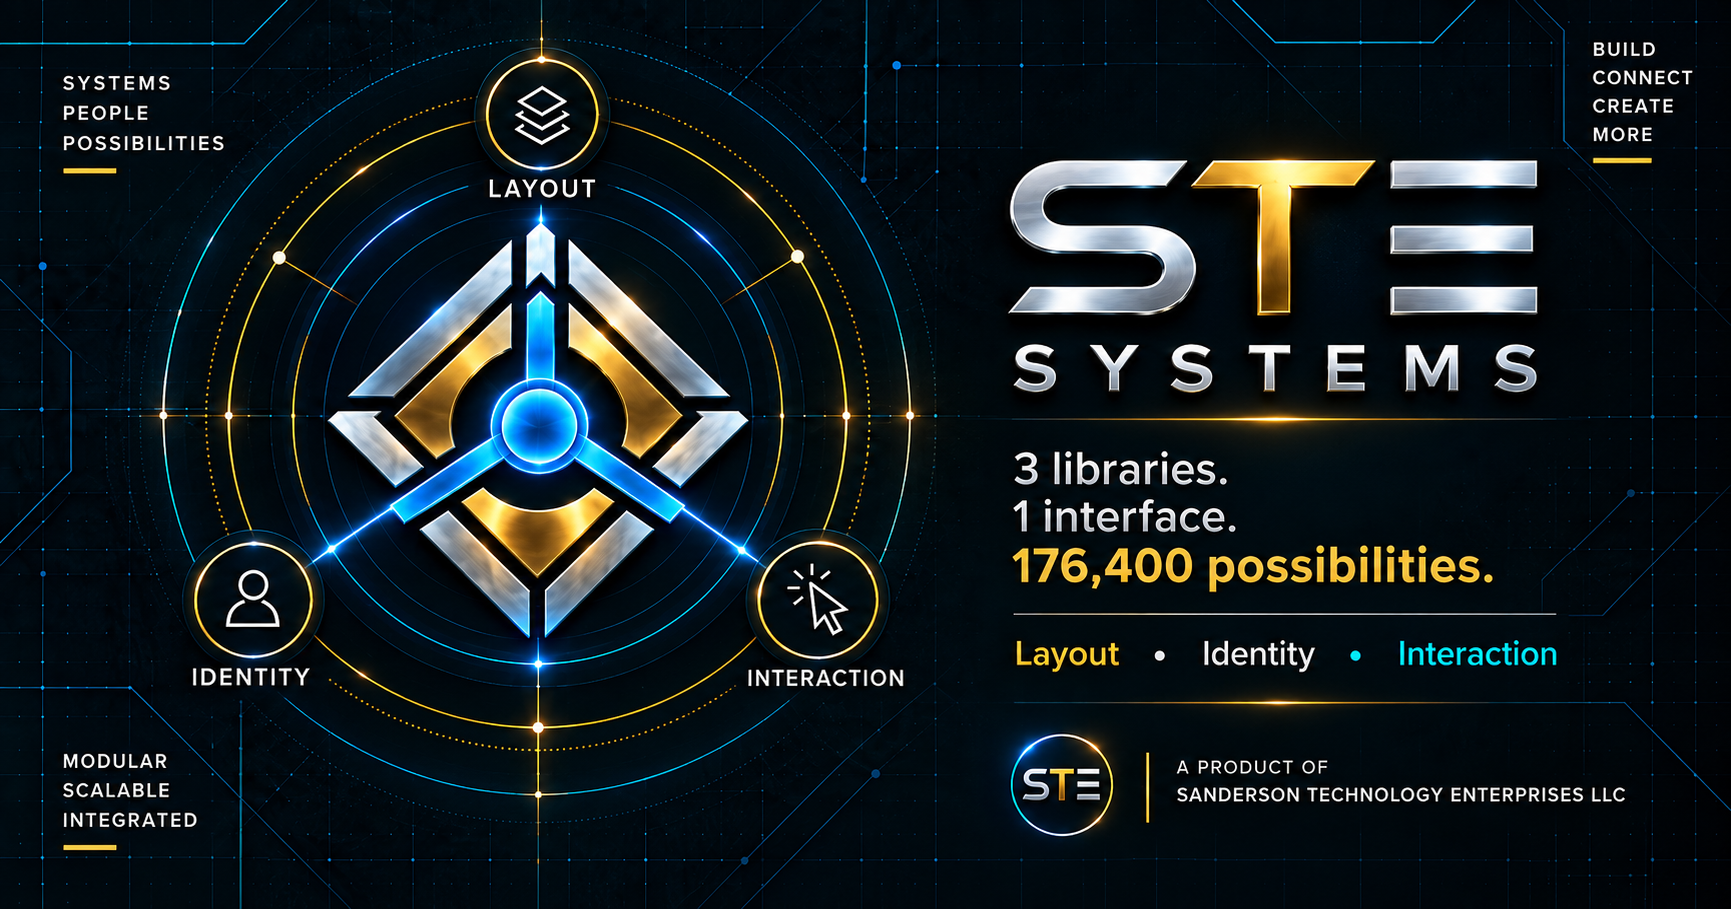
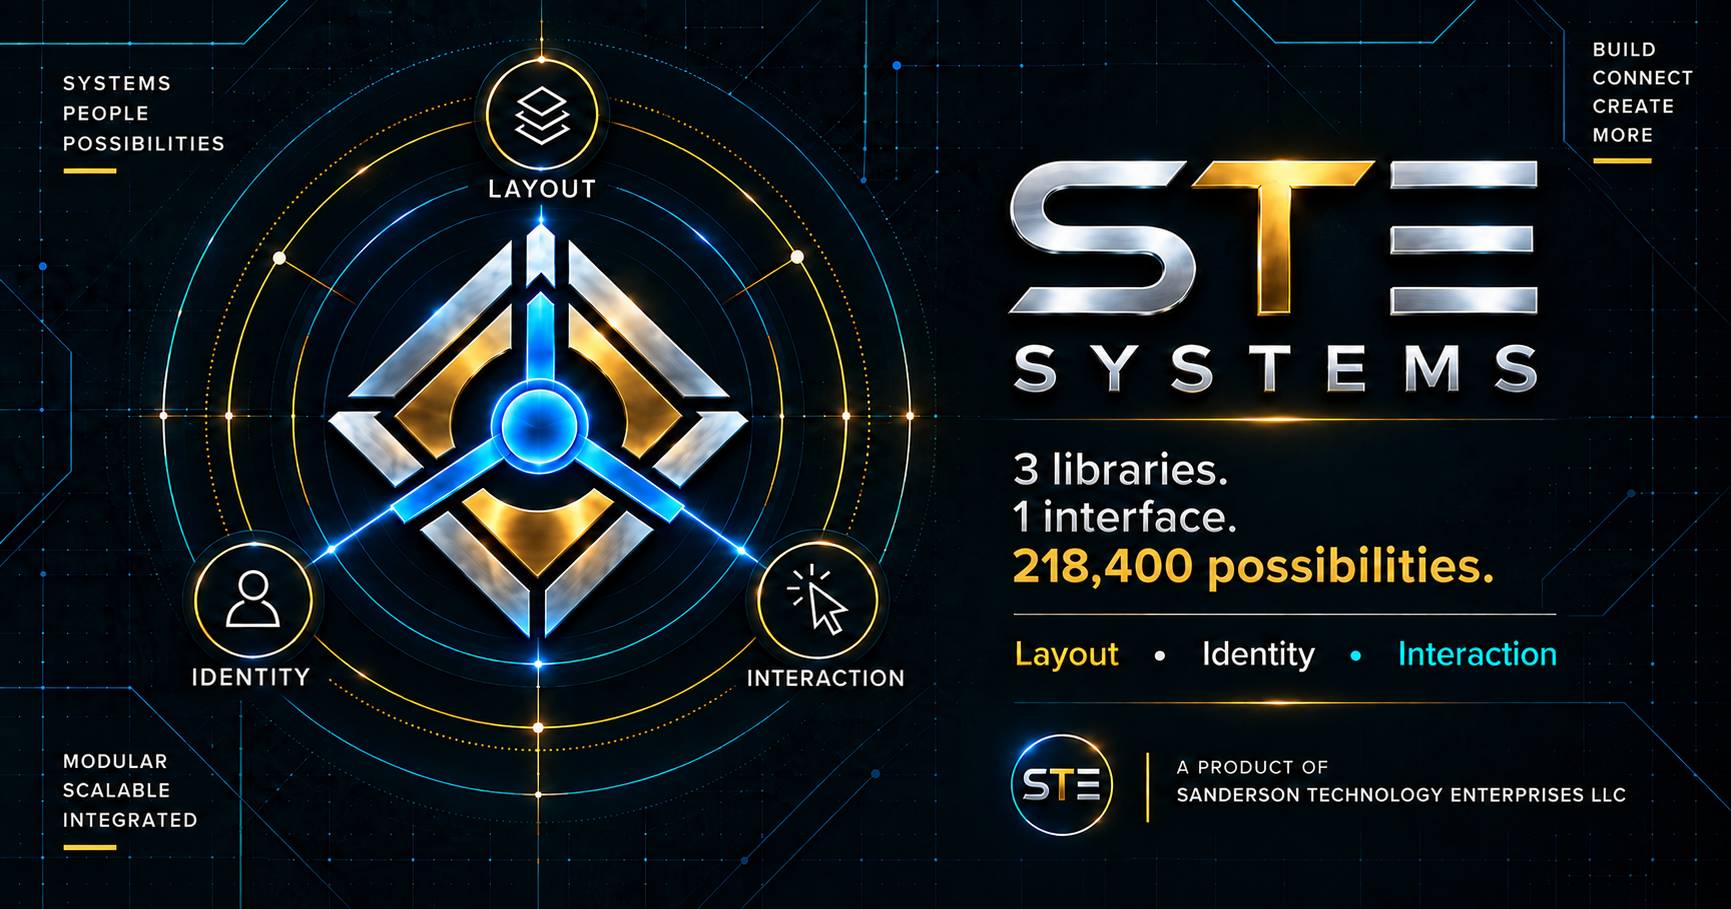
feat: expand STE Systems to 218400 combinations

diff --git a/tests/ecosystem.test.ts b/tests/ecosystem.test.ts
@@ -14,6 +14,8 @@ import {
   CDN_MARKUP,
   ECOSYSTEM_PACKAGES,
   NPM_INSTALL,
+  UI_STYLE_KIT_INSTALL_SPEC,
+  UI_STYLE_KIT_THEME_COMMIT,
 } from "../app/data/ecosystem";
 import {
   UI_SEMANTIC_CLASS_BY_SUFFIX,
@@ -180,9 +182,11 @@ test("the pinned UI manifest publishes the stable semantic component contract", 
 });
 
 test("installation examples pin approved versions and cascade order", () => {
+  const uiStyleKitCdnRoot = `https://cdn.jsdelivr.net/gh/Foscat/ui-style-kit-css@${UI_STYLE_KIT_THEME_COMMIT}`;
+
   assert.equal(
     NPM_INSTALL,
-    "npm install ui-style-kit-css@2.4.0 layout-style-css@3.2.0 interactive-surface-css@1.7.0",
+    `npm install ui-style-kit-css@${UI_STYLE_KIT_INSTALL_SPEC} layout-style-css@3.2.0 interactive-surface-css@1.7.0`,
   );
   assert.deepEqual(BUNDLER_IMPORTS, [
     'import "ui-style-kit-css/visual.css";',
@@ -194,12 +198,12 @@ test("installation examples pin approved versions and cascade order", () => {
     {
       packageName: "ui-style-kit-css",
       kind: "style",
-      href: "https://cdn.jsdelivr.net/npm/ui-style-kit-css@2.4.0/dist/ui-style-kit.visual.min.css",
+      href: `${uiStyleKitCdnRoot}/dist/ui-style-kit.visual.min.css`,
     },
     {
       packageName: "ui-style-kit-css",
       kind: "style",
-      href: "https://cdn.jsdelivr.net/npm/ui-style-kit-css@2.4.0/styles/interactive-surface-theme.css",
+      href: `${uiStyleKitCdnRoot}/styles/interactive-surface-theme.css`,
     },
     {
       packageName: "interactive-surface-css",
@@ -215,8 +219,8 @@ test("installation examples pin approved versions and cascade order", () => {
   assert.equal(
     CDN_MARKUP,
     [
-      '<link rel="stylesheet" href="https://cdn.jsdelivr.net/npm/ui-style-kit-css@2.4.0/dist/ui-style-kit.visual.min.css">',
-      '<link rel="stylesheet" href="https://cdn.jsdelivr.net/npm/ui-style-kit-css@2.4.0/styles/interactive-surface-theme.css">',
+      `<link rel="stylesheet" href="${uiStyleKitCdnRoot}/dist/ui-style-kit.visual.min.css">`,
+      `<link rel="stylesheet" href="${uiStyleKitCdnRoot}/styles/interactive-surface-theme.css">`,
       '<link rel="stylesheet" href="https://cdn.jsdelivr.net/npm/interactive-surface-css@1.7.0/state-core.css">',
       '<link rel="stylesheet" href="https://cdn.jsdelivr.net/npm/layout-style-css@3.2.0/dist/layout-style-css.min.css">',
     ].join("\n"),
@@ -250,10 +254,9 @@ test("adoption paths cover every standalone, pair, and complete-stack fixture", 
     { one: 3, pair: 3, all: 1 },
   );
 
-  const uiVisualCdn =
-    '<link rel="stylesheet" href="https://cdn.jsdelivr.net/npm/ui-style-kit-css@2.4.0/dist/ui-style-kit.visual.min.css">';
-  const uiThemeCdn =
-    '<link rel="stylesheet" href="https://cdn.jsdelivr.net/npm/ui-style-kit-css@2.4.0/styles/interactive-surface-theme.css">';
+  const uiStyleKitCdnRoot = `https://cdn.jsdelivr.net/gh/Foscat/ui-style-kit-css@${UI_STYLE_KIT_THEME_COMMIT}`;
+  const uiVisualCdn = `<link rel="stylesheet" href="${uiStyleKitCdnRoot}/dist/ui-style-kit.visual.min.css">`;
+  const uiThemeCdn = `<link rel="stylesheet" href="${uiStyleKitCdnRoot}/styles/interactive-surface-theme.css">`;
   const interactionCoreCdn =
     '<link rel="stylesheet" href="https://cdn.jsdelivr.net/npm/interactive-surface-css@1.7.0/state-core.css">';
   const interactionStandaloneCdn =
@@ -272,7 +275,7 @@ test("adoption paths cover every standalone, pair, and complete-stack fixture", 
     "ui-only": {
       packages: ["ui-style-kit-css"],
       snippets: [
-        "npm install ui-style-kit-css@2.4.0",
+        `npm install ui-style-kit-css@${UI_STYLE_KIT_INSTALL_SPEC}`,
         'import "ui-style-kit-css/visual.css";',
         uiVisualCdn,
       ],
@@ -288,7 +291,7 @@ test("adoption paths cover every standalone, pair, and complete-stack fixture", 
     "layout-ui": {
       packages: ["layout-style-css", "ui-style-kit-css"],
       snippets: [
-        "npm install layout-style-css@3.2.0 ui-style-kit-css@2.4.0",
+        `npm install layout-style-css@3.2.0 ui-style-kit-css@${UI_STYLE_KIT_INSTALL_SPEC}`,
         [
           'import "ui-style-kit-css/visual.css";',
           'import "layout-style-css";',
@@ -310,7 +313,7 @@ test("adoption paths cover every standalone, pair, and complete-stack fixture", 
     "ui-interactive": {
       packages: ["ui-style-kit-css", "interactive-surface-css"],
       snippets: [
-        "npm install ui-style-kit-css@2.4.0 interactive-surface-css@1.7.0",
+        `npm install ui-style-kit-css@${UI_STYLE_KIT_INSTALL_SPEC} interactive-surface-css@1.7.0`,
         [
           'import "ui-style-kit-css/visual.css";',
           'import "ui-style-kit-css/interactive-surface-theme.css";',
@@ -350,9 +353,13 @@ test("adoption paths cover every standalone, pair, and complete-stack fixture", 
         (candidate) => candidate.name === packageName,
       )?.version;
       assert.ok(packageVersion, packageName);
-      assert.match(
-        path.snippets[0].code,
-        new RegExp(`${packageName}@${packageVersion}`),
+      const installSpec =
+        packageName === "ui-style-kit-css"
+          ? UI_STYLE_KIT_INSTALL_SPEC
+          : packageVersion;
+      assert.ok(
+        path.snippets[0].code.includes(`${packageName}@${installSpec}`),
+        packageName,
       );
     }
   }
@@ -416,7 +423,10 @@ test("site consumes the CSS libraries as local dependencies", async () => {
   };
 
   assert.equal(manifest.dependencies["layout-style-css"], "3.2.0");
-  assert.equal(manifest.dependencies["ui-style-kit-css"], "2.4.0");
+  assert.equal(
+    manifest.dependencies["ui-style-kit-css"],
+    UI_STYLE_KIT_INSTALL_SPEC,
+  );
   assert.equal(manifest.dependencies["interactive-surface-css"], "1.7.0");
   assert.match(
     layoutSource,
@@ -776,6 +786,11 @@ test("catalog exposes every released ecosystem option", async () => {
     "foundry-amber",
     "soft-orchid",
     "electric-noir",
+    "signal-yellow",
+    "botanical-green",
+    "cobalt-electric",
+    "stone-graphite",
+    "walnut-clay",
   ]);
   assert.deepEqual(UI_MODES, ["light", "dark", "contrast"]);
   assert.deepEqual(INTERACTION_VARIANTS, [
@@ -828,7 +843,11 @@ test("documented package versions match the pinned CDN URLs", () => {
 
     assert.notEqual(cdn.length, 0);
     for (const { href } of cdn) {
-      assert.ok(href.includes(`${pkg.name}@${pkg.version}`));
+      const expectedPin =
+        pkg.name === "ui-style-kit-css"
+          ? `${pkg.name}@${UI_STYLE_KIT_THEME_COMMIT}`
+          : `${pkg.name}@${pkg.version}`;
+      assert.ok(href.includes(expectedPin), pkg.name);
     }
   }
 });
@@ -870,7 +889,7 @@ test("site identity targets the transferred organization", () => {
   );
   assert.equal(
     site.socialImageAlt,
-    "STE Systems social preview with the text \u201c3 libraries, 1 interface, and 176,400 possibilities\u201d over layout, identity, and interaction.",
+    "STE Systems social preview with the text \u201c3 libraries, 1 interface, and 218,400 possibilities\u201d over layout, identity, and interaction.",
   );
   assert.equal(site.brandLogoPath, "ste-systems-logo.png");
   assert.equal(site.brandLogo, "https://stesystems.com/ste-systems-logo.png");

diff --git a/app/data/ecosystem.ts b/app/data/ecosystem.ts
@@ -12,6 +12,19 @@ export type EcosystemPackage = {
   links: Record<ResourceLink, string>;
 };
 
+/**
+ * Immutable UI Style Kit revision that adds the five themes used by the Lab.
+ * The package remains version 2.4.0 until its next npm release is published.
+ */
+export const UI_STYLE_KIT_THEME_COMMIT =
+  "4b97e379657c99767263347823f2808fb466ecf9";
+
+/** Reproducible, credential-free npm source for the expanded 25-theme package. */
+export const UI_STYLE_KIT_INSTALL_SPEC = `https://codeload.github.com/Foscat/ui-style-kit-css/tar.gz/${UI_STYLE_KIT_THEME_COMMIT}`;
+
+/** Immutable jsDelivr root for the expanded 25-theme package. */
+const UI_STYLE_KIT_CDN_ROOT = `https://cdn.jsdelivr.net/gh/Foscat/ui-style-kit-css@${UI_STYLE_KIT_THEME_COMMIT}`;
+
 export const ECOSYSTEM_PACKAGES: readonly EcosystemPackage[] = [
   {
     name: "layout-style-css",
@@ -66,8 +79,7 @@ export const ECOSYSTEM_PACKAGES: readonly EcosystemPackage[] = [
   },
 ] as const;
 
-export const NPM_INSTALL =
-  "npm install ui-style-kit-css@2.4.0 layout-style-css@3.2.0 interactive-surface-css@1.7.0";
+export const NPM_INSTALL = `npm install ui-style-kit-css@${UI_STYLE_KIT_INSTALL_SPEC} layout-style-css@3.2.0 interactive-surface-css@1.7.0`;
 
 export const BUNDLER_IMPORTS = [
   'import "ui-style-kit-css/visual.css";',
@@ -86,12 +98,12 @@ export const CDN_LINKS = [
   {
     packageName: "ui-style-kit-css",
     kind: "style",
-    href: "https://cdn.jsdelivr.net/npm/ui-style-kit-css@2.4.0/dist/ui-style-kit.visual.min.css",
+    href: `${UI_STYLE_KIT_CDN_ROOT}/dist/ui-style-kit.visual.min.css`,
   },
   {
     packageName: "ui-style-kit-css",
     kind: "style",
-    href: "https://cdn.jsdelivr.net/npm/ui-style-kit-css@2.4.0/styles/interactive-surface-theme.css",
+    href: `${UI_STYLE_KIT_CDN_ROOT}/styles/interactive-surface-theme.css`,
   },
   {
     packageName: "interactive-surface-css",
@@ -216,7 +228,7 @@ export const ADOPTION_PATHS = [
     deprecated: false,
     snippets: adoptionSnippets(
       "ui-only",
-      "npm install ui-style-kit-css@2.4.0",
+      `npm install ui-style-kit-css@${UI_STYLE_KIT_INSTALL_SPEC}`,
       ['import "ui-style-kit-css/visual.css";'],
       [uiVisualCdn],
       "Install UI Style Kit CSS",
@@ -248,7 +260,7 @@ export const ADOPTION_PATHS = [
     deprecated: false,
     snippets: adoptionSnippets(
       "layout-ui",
-      "npm install layout-style-css@3.2.0 ui-style-kit-css@2.4.0",
+      `npm install layout-style-css@3.2.0 ui-style-kit-css@${UI_STYLE_KIT_INSTALL_SPEC}`,
       ['import "ui-style-kit-css/visual.css";', 'import "layout-style-css";'],
       [uiVisualCdn, layoutCdn],
       "Install Layout and UI",
@@ -283,7 +295,7 @@ export const ADOPTION_PATHS = [
     deprecated: false,
     snippets: adoptionSnippets(
       "ui-interactive",
-      "npm install ui-style-kit-css@2.4.0 interactive-surface-css@1.7.0",
+      `npm install ui-style-kit-css@${UI_STYLE_KIT_INSTALL_SPEC} interactive-surface-css@1.7.0`,
       [
         'import "ui-style-kit-css/visual.css";',
         'import "ui-style-kit-css/interactive-surface-theme.css";',

diff --git a/tests/browser/routes.spec.ts b/tests/browser/routes.spec.ts
@@ -163,6 +163,17 @@ test("homepage and lab remain collision-free across the responsive matrix", asyn
               ".brand-copy, .navigation-toggle, .navigation-link, .navigation-actions .site-action",
             ),
           ).filter((label) => label.getClientRects().length > 0);
+          const overflowingLabels = visibleLabels
+            .map((label) => ({
+              label:
+                label.getAttribute("aria-label") ??
+                label.textContent?.trim() ??
+                "unlabeled header control",
+              overflow: label.scrollWidth - label.clientWidth,
+            }))
+            // Integer DOM metrics can differ by one CSS pixel after font and
+            // device-pixel rounding without producing visible clipping.
+            .filter(({ overflow }) => overflow > 1);
 
           return {
             brandClearsNavigation:
@@ -170,19 +181,22 @@ test("homepage and lab remain collision-free across the responsive matrix", asyn
                 ? brand.getBoundingClientRect().right <=
                   navigation.getBoundingClientRect().left
                 : false,
-            labelsFit: visibleLabels.every(
-              (label) => label.scrollWidth <= label.clientWidth,
-            ),
+            labelsFit: overflowingLabels.length === 0,
             noHorizontalOverflow:
               document.documentElement.scrollWidth <=
               document.documentElement.clientWidth,
+            overflowingLabels,
           };
         });
 
-      expect(headerHealth).toEqual({
+      expect(
+        headerHealth,
+        `${route} at ${viewport.width}x${viewport.height}`,
+      ).toEqual({
         brandClearsNavigation: true,
         labelsFit: true,
         noHorizontalOverflow: true,
+        overflowingLabels: [],
       });
 
       if (route === "./lab/" && viewport.width === 768) {

diff --git a/tests/atlas-contract.test.ts b/tests/atlas-contract.test.ts
@@ -52,7 +52,7 @@ test("atlas coverage mirrors every published library contract", () => {
 });
 
 test("possibility count includes densities and native color schemes", () => {
-  const sharedThemePairings = 20 * 20;
+  const sharedThemePairings = 20 * 25;
   const nativeThemePairings = 20;
 
   assert.deepEqual(LAYOUT_DENSITIES, ["compact", "normal", "spacious"]);
@@ -60,7 +60,7 @@ test("possibility count includes densities and native color schemes", () => {
     SUPPORTED_COMBINATIONS,
     20 * 7 * 3 * (sharedThemePairings + nativeThemePairings),
   );
-  assert.equal(SUPPORTED_COMBINATIONS, 176_400);
-  assert.equal(SUPPORTED_COMBINATIONS_LABEL, "176,400");
+  assert.equal(SUPPORTED_COMBINATIONS, 218_400);
+  assert.equal(SUPPORTED_COMBINATIONS_LABEL, "218,400");
   assert.equal("modes" in ATLAS_COVERAGE.ui, false);
 });

diff --git a/app/lib/site.ts b/app/lib/site.ts
@@ -20,7 +20,7 @@ export const SITE = {
   repository: "https://github.com/Sanderson-Technology-Enterprises/ste-systems",
   socialImage: `${productionUrl}ste-systems-social-preview.png`,
   socialImageAlt:
-    "STE Systems social preview with the text \u201c3 libraries, 1 interface, and 176,400 possibilities\u201d over layout, identity, and interaction.",
+    "STE Systems social preview with the text \u201c3 libraries, 1 interface, and 218,400 possibilities\u201d over layout, identity, and interaction.",
   brandLogoPath: "ste-systems-logo.png",
   brandLogo: `${productionUrl}ste-systems-logo.png`,
   brandLogoAlt: "STE Systems logo",

diff --git a/tests/browser/site.spec.ts b/tests/browser/site.spec.ts
@@ -25,7 +25,7 @@ const repositoryUrl =
   "https://github.com/Sanderson-Technology-Enterprises/ste-systems";
 const socialImageUrl = `${canonicalUrl}ste-systems-social-preview.png`;
 const socialImageAlt =
-  "STE Systems social preview with the text \u201c3 libraries, 1 interface, and 176,400 possibilities\u201d over layout, identity, and interaction.";
+  "STE Systems social preview with the text \u201c3 libraries, 1 interface, and 218,400 possibilities\u201d over layout, identity, and interaction.";
 const websiteId = `${canonicalUrl}#website`;
 const webpageId = `${canonicalUrl}#webpage`;
 const labWebpageId = `${labUrl}#webpage`;

diff --git a/tests/three-library-contract.test.ts b/tests/three-library-contract.test.ts
@@ -37,7 +37,7 @@ test("the public ecosystem contains exactly the three CSS libraries", () => {
 test("the headline count includes densities and native color schemes", () => {
   const homepage = readFileSync(`${repositoryRoot}/app/page.tsx`, "utf8");
 
-  assert.equal(SUPPORTED_COMBINATIONS_LABEL, "176,400");
+  assert.equal(SUPPORTED_COMBINATIONS_LABEL, "218,400");
   assert.match(homepage, /SUPPORTED_COMBINATIONS_LABEL/);
   assert.equal(20 * 7 * 3 * (20 * 20 + 20), 176_400);
 });

diff --git a/README.md b/README.md
@@ -10,11 +10,11 @@
 
 ## Ecosystem resources
 
-| Layer     | Package                         | Repository                                                      | Wiki                                                           | npm                                                          | Demo                                                           |
-| --------- | ------------------------------- | --------------------------------------------------------------- | -------------------------------------------------------------- | ------------------------------------------------------------ | -------------------------------------------------------------- |
-| Structure | `layout-style-css@3.2.0`        | [Repository](https://github.com/Foscat/Layout-Style-CSS)        | [Wiki](https://github.com/Foscat/Layout-Style-CSS/wiki)        | [npm](https://www.npmjs.com/package/layout-style-css)        | [Live demo](https://foscat.github.io/Layout-Style-CSS/)        |
-| Identity  | `ui-style-kit-css@2.4.0`        | [Repository](https://github.com/Foscat/ui-style-kit-css)        | [Wiki](https://github.com/Foscat/ui-style-kit-css/wiki)        | [npm](https://www.npmjs.com/package/ui-style-kit-css)        | [Live demo](https://foscat.github.io/ui-style-kit-css/)        |
-| Behavior  | `interactive-surface-css@1.7.0` | [Repository](https://github.com/Foscat/Interactive-Surface-CSS) | [Wiki](https://github.com/Foscat/Interactive-Surface-CSS/wiki) | [npm](https://www.npmjs.com/package/interactive-surface-css) | [Live demo](https://foscat.github.io/Interactive-Surface-CSS/) |
+| Layer     | Package                              | Repository                                                      | Wiki                                                           | npm                                                          | Demo                                                           |
+| --------- | ------------------------------------ | --------------------------------------------------------------- | -------------------------------------------------------------- | ------------------------------------------------------------ | -------------------------------------------------------------- |
+| Structure | `layout-style-css@3.2.0`             | [Repository](https://github.com/Foscat/Layout-Style-CSS)        | [Wiki](https://github.com/Foscat/Layout-Style-CSS/wiki)        | [npm](https://www.npmjs.com/package/layout-style-css)        | [Live demo](https://foscat.github.io/Layout-Style-CSS/)        |
+| Identity  | `ui-style-kit-css@2.4.0` (`4b97e37`) | [Repository](https://github.com/Foscat/ui-style-kit-css)        | [Wiki](https://github.com/Foscat/ui-style-kit-css/wiki)        | [npm](https://www.npmjs.com/package/ui-style-kit-css)        | [Live demo](https://foscat.github.io/ui-style-kit-css/)        |
+| Behavior  | `interactive-surface-css@1.7.0`      | [Repository](https://github.com/Foscat/Interactive-Surface-CSS) | [Wiki](https://github.com/Foscat/Interactive-Surface-CSS/wiki) | [npm](https://www.npmjs.com/package/interactive-surface-css) | [Live demo](https://foscat.github.io/Interactive-Surface-CSS/) |
 
 ## Adoption matrix
 
@@ -37,7 +37,7 @@ layers without changing ownership boundaries.
 Install the exact aligned releases:
 
 ```bash
-npm install ui-style-kit-css@2.4.0 layout-style-css@3.2.0 interactive-surface-css@1.7.0
+npm install ui-style-kit-css@https://codeload.github.com/Foscat/ui-style-kit-css/tar.gz/4b97e379657c99767263347823f2808fb466ecf9 layout-style-css@3.2.0 interactive-surface-css@1.7.0
 ```
 
 Then load the package entry points in ownership order. UI Style Kit establishes
@@ -89,11 +89,11 @@ For static HTML consumers, keep this exact order in the document head:
 ```html
 <link
   rel="stylesheet"
-  href="https://cdn.jsdelivr.net/npm/ui-style-kit-css@2.4.0/dist/ui-style-kit.visual.min.css"
+  href="https://cdn.jsdelivr.net/gh/Foscat/ui-style-kit-css@4b97e379657c99767263347823f2808fb466ecf9/dist/ui-style-kit.visual.min.css"
 />
 <link
   rel="stylesheet"
-  href="https://cdn.jsdelivr.net/npm/ui-style-kit-css@2.4.0/styles/interactive-surface-theme.css"
+  href="https://cdn.jsdelivr.net/gh/Foscat/ui-style-kit-css@4b97e379657c99767263347823f2808fb466ecf9/styles/interactive-surface-theme.css"
 />
 <link
   rel="stylesheet"
